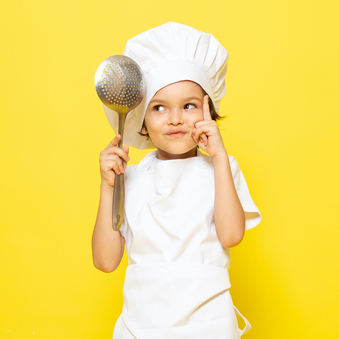
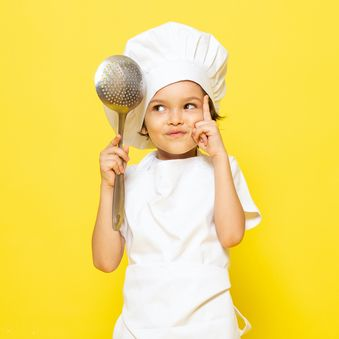
[images]

diff --git a/index.html b/index.html
@@ -99,7 +99,7 @@
             <h1>La Box Voyageuse</h1>
             <h2>Voyagez en cuisinant !</h2>
           </div>
-          <img class="fullimage" src="images/hero-full-image.webp" alt="monde">
+          <img class="fullimage" src="images/hero-full-image.png" alt="monde">
           <div class="buttonandarrow">
             <a href="https://www.laboxvoyageuse.fr/acheter-box-culinaire-voyage-box-food-monde" class="btnsubscribe subscribegeneral">Je m'abonne / J'offre</a>
           </div>
@@ -121,14 +121,14 @@
           <div class="first line">
             <article>
               <figure>
-                <img class="circle-img" src="images/abonnez-vous.webp" alt="Abonnement">
+                <img class="circle-img" src="images/abonnez-vous.jpg" alt="Abonnement">
                 <figcaption><h4>1<br>ABONNEZ-VOUS</h4></figcaption>
               </figure>
               <p>Commandez votre abonnement pour vous ou à offrir. Choisissez la durée de l’abonnement.</p>
             </article>
             <article>
               <figure>
-                <img class="circle-img" src="images/recevez.webp" alt="Recevoir">
+                <img class="circle-img" src="images/recevez.jpg" alt="Recevoir">
                 <figcaption><h4>2<br>RECEVEZ</h4></figcaption>
               </figure>
               <p>Chaque mois, la Box Voyageuse arrive directement dans votre boîte aux lettres.</p>
@@ -137,14 +137,14 @@
           <div class="second line">
             <article>
               <figure>
-                <img class="circle-img" src="images/decouvrez.webp" alt="Découvrir">
+                <img class="circle-img" src="images/decouvrez.jpg" alt="Découvrir">
                 <figcaption><h4>3<br>DÉCOUVREZ</h4></figcaption>
               </figure>
               <p>Découvrez la destination du mois, 5 à 7 produits de qualité et le livret descriptif.</p>
             </article>
             <article>
               <figure>
-                <img class="circle-img" src="images/cusinez.webp" alt="Cusisiner">
+                <img class="circle-img" src="images/cusinez.jpg" alt="Cusisiner">
                 <figcaption><h4>4<br>CUSINEZ ET DEGUSTEZ</h4></figcaption>
               </figure>
               <p>À vous de cusiner les produits du pays du mois afin de vous régaler !</p>
@@ -159,7 +159,7 @@
         <p class="introduction-text">Chaque mois une box vous transporte culinairement vers une destination <strong>SUPRISE</strong> !</p>
 
         <div class="explantion-inside-box">
-          <img class="inside-box" src="images/interrieur.webp" alt="Contenu de la box">
+          <img class="inside-box" src="images/interrieur.jpg" alt="Contenu de la box">
 
           <div class="text-inside-box">
             <p><strong>Optez pour l’ABONNEMENT :</strong> Pour préparer un repas original et complet pour 4 personnes afin de voyager depuis chez soi 1 fois par mois ! </p>
@@ -225,14 +225,14 @@
           <div class="first line">
             <article>
               <figure>
-                <img class="circle-img" src="images/bonne-qualite.webp" alt="Produits de qualités">
+                <img class="circle-img" src="images/bonne-qualite.jpg" alt="Produits de qualités">
                 <figcaption><h4>DES PRODUITS INSOLITES DE QUALITÉ</h4></figcaption>
               </figure>
               <p>Nous vous proposons des produits rares impossible à trouver en grande surface !</p>
             </article>
             <article>
               <figure>
-                <img class="circle-img" src="images/facil-a-cuisiner.webp" alt="Facil à cusisiner">
+                <img class="circle-img" src="images/facil-a-cuisiner.jpg" alt="Facil à cusisiner">
                 <figcaption><h4>NIVEAU DE CUISINE FACILE</h4></figcaption>
               </figure>
               <p>Ne vous inquiétez pas les recettes sont accessibles à tous, c’est un vrai jeu d’enfant !</p>
@@ -241,14 +241,14 @@
           <div class="second line">
             <article>
               <figure>
-                <img class="circle-img" src="images/rien-a-ajouter.webp" alt="Rien à ajouter">
+                <img class="circle-img" src="images/rien-a-ajouter.jpg" alt="Rien à ajouter">
                 <figcaption><h4>AUCUN PRODUIT EN PLUS À ACHETER </h4></figcaption>
               </figure>
               <p>Nous avons tout prévu dans la box aucun ingrédient n’a besoin d’être ajouter.</p>
             </article>
             <article>
               <figure>
-                <img class="circle-img" src="images/saveurs.webp" alt="Saveurs">
+                <img class="circle-img" src="images/saveurs.jpg" alt="Saveurs">
                 <figcaption><h4>DES SAVEURS QUI FONT VOYAGER</h4></figcaption>
               </figure>
               <p>Pour une expérience culinaire à partager.</p>
@@ -269,7 +269,7 @@
               <li class="carousel-item-box">
                 <a href="https://www.laboxvoyageuse.fr/la-box-voyageuse-special-maroc-c2x33686114" class="box">
                   <article class="three-boxs">
-                    <img class="img-three-boxs" src="images/maroc.webp" alt="Box du maroc">
+                    <img class="img-three-boxs" src="images/maroc.jpg" alt="Box du maroc">
                     <h5 class="title-boxs">La box Voyageuse<br>Spécial Maroc</h5>
                     <div class="number-notices">
                       <div class="note-star">
@@ -299,7 +299,7 @@
               <li class="carousel-item-box">
                 <a href="https://www.laboxvoyageuse.fr/PBSCCatalog.asp?CatID=3170667" class="box">
                   <article class="three-boxs">
-                    <img class="img-three-boxs" src="images/inde.webp" alt="Box de l'inde">
+                    <img class="img-three-boxs" src="images/inde.jpg" alt="Box de l'inde">
                     <h5 class="title-boxs">La box Voyageuse<br>Spécial Inde</h5>
                     <div class="number-notices">
                       <div class="note-star">
@@ -319,7 +319,7 @@
               <li class="carousel-item-box">
                 <a href="https://www.laboxvoyageuse.fr/la-box-voyageuse-special-chine-c2x33891543" class="box">
                   <article class="three-boxs">
-                    <img class="img-three-boxs" src="images/chine.webp" alt="Box de la chine">
+                    <img class="img-three-boxs" src="images/chine.jpg" alt="Box de la chine">
                     <h5 class="title-boxs">La box Voyageuse<br>Spécial Chine</h5>
                     <div class="number-notices">
                       <div class="note-star">
@@ -349,7 +349,7 @@
         <h3>Nos experts passionnés !</h3>
 
         <div class="team-explenations">
-          <img class="img-team" src="images/equipe.webp" alt="Equipe">
+          <img class="img-team" src="images/equipe.jpg" alt="Equipe">
           <div class="team-text">
             <p class="introduction-text"><strong>Géraldine, Vincent, Delphine et Imane</strong> vous donnent des conseils pour votre cuisine !</p>
             <p>Passionnés de voyages aux quatre coins du Monde et de découvertes culinaires, l’idée de partager ces expériences gustatives s’est imposée à nous, tout naturellement. Quoi de plus évident pour prolonger le voyage, que de rechercher les odeurs, les goûts et les souvenirs qu’ils éveillent quand une fois chez nous, nous reprenions nos vies de citadins...</p>
@@ -552,7 +552,7 @@
           </symbol>
         </svg>
         <svg class="icon icon-call-center"><use xlink:href="#icon-call-center"></use></svg>
-        <figcaption><h4>Service clien</h4></figcaption>
+        <figcaption><h4>Service client</h4></figcaption>
       </figure>
 
     </section>

diff --git a/styles.css b/styles.css
@@ -1071,7 +1071,7 @@ input[type=radio] {
   }
   .herofullimage{
     background-image: linear-gradient(0deg, rgba(0, 0, 0, 0.3) 0%, rgba(0,0,0,0.3) 100%),
-                      url(images/hero-full-image.webp);
+                      url(images/hero-full-image.png);
     background-position: center;
     background-repeat: no-repeat;
     background-size: cover; 
